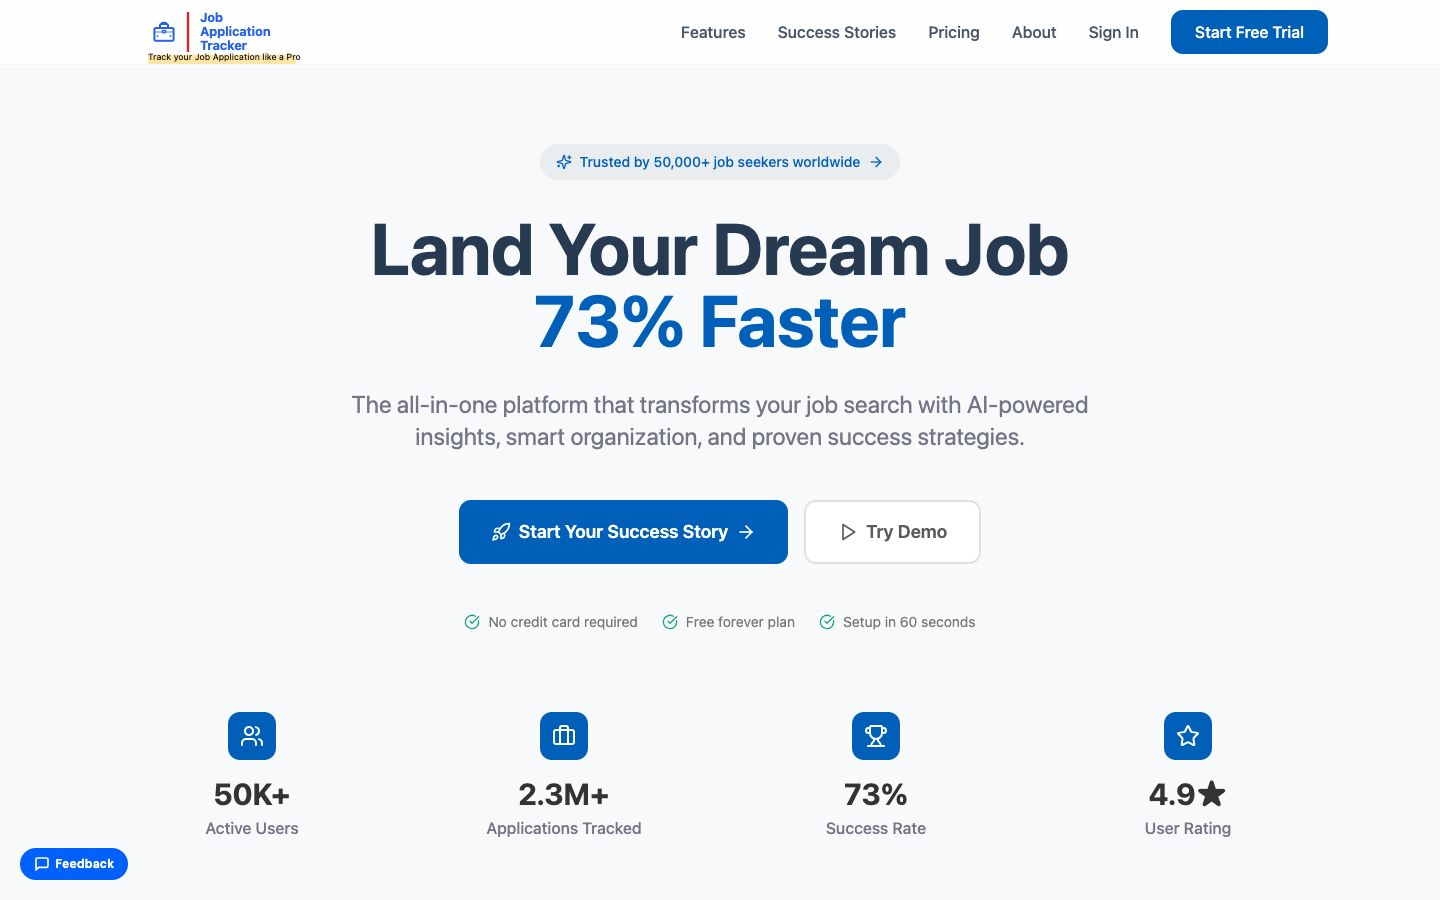
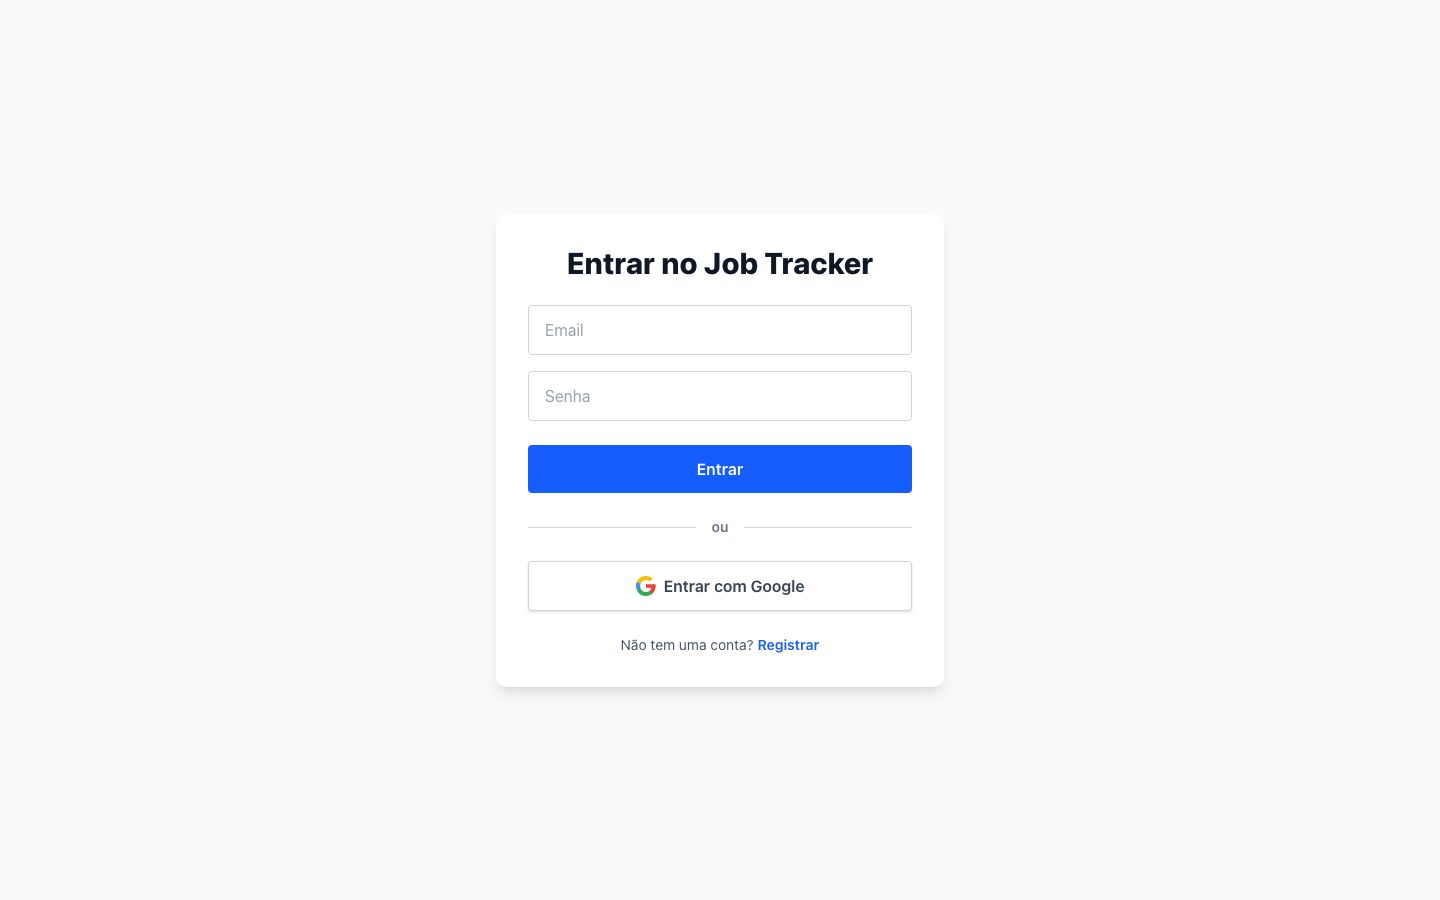
Fix Job Tracker live URL to the production domain.

diff --git a/src/data/site.ts b/src/data/site.ts
@@ -69,7 +69,7 @@ export const projects: Project[] = [
     blurb:
       "Job application tracker with auth, dashboard analytics, status pipelines, and auto-extraction from job boards.",
     stack: ["Next.js", "TypeScript", "Supabase", "PostgreSQL"],
-    liveUrl: "https://job-tracker-saas.vercel.app",
+    liveUrl: "https://job-tracker-saas-five.vercel.app",
     repoUrl: "https://github.com/cauesilva1/Job-Tracker-SaaS",
     image: "/images/projects/job-tracker.jpg",
     group: "other",